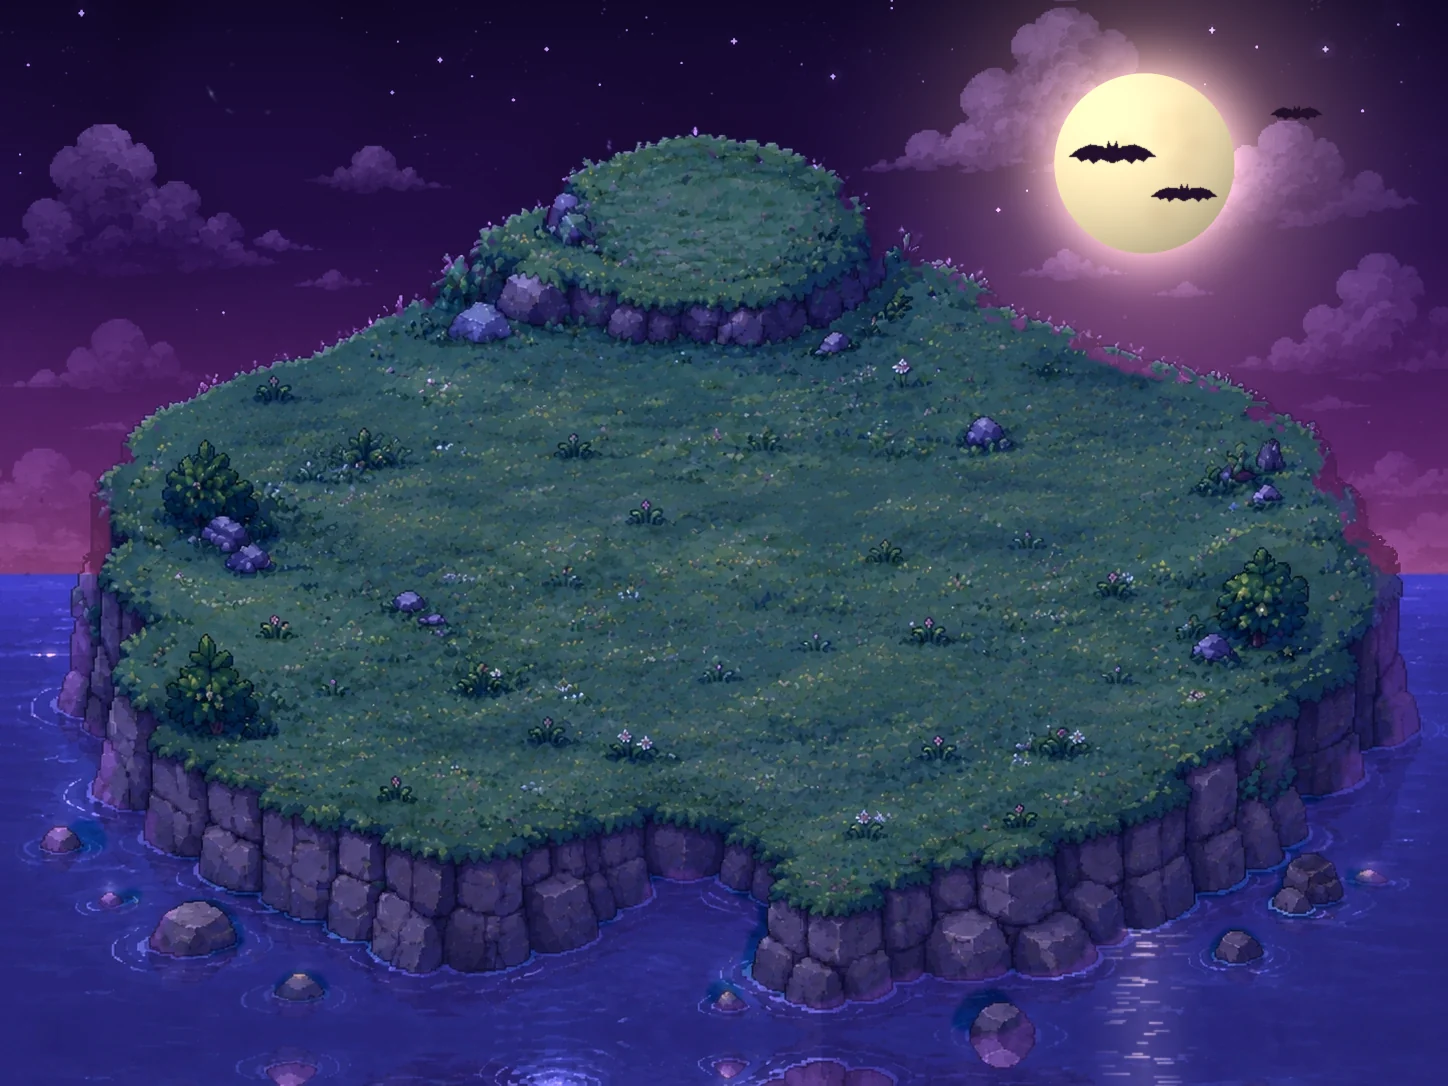
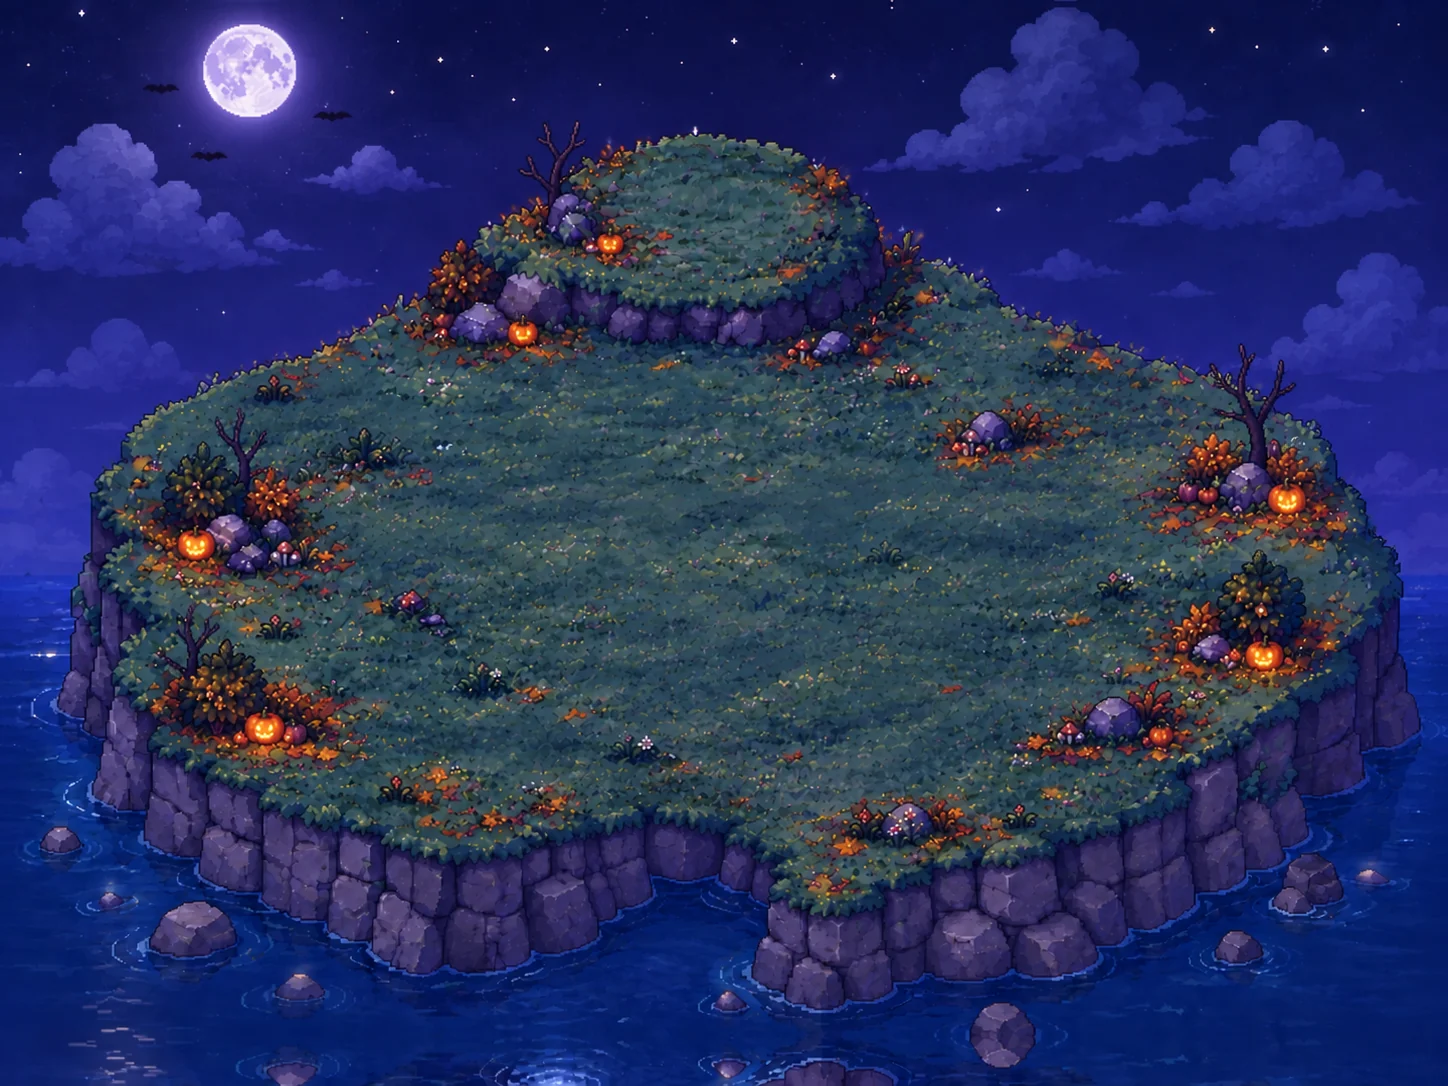
October island: the new Halloween sanctuary, one picture per time of day
Replaces the single night picture with the provided Halloween sanctuary
(morning, noon, evening and night), drawn on the regular island's exact
footprint, so decorations and KONO's paths line up. October follows the time
of day again: leaves fall by day; bats, fog and the odd ghost come out in the
evening and at night, and the night moon glows where it's painted.

tools/import_halloween_island.py turns the source pictures into the maps and
loading previews and finds the moon; the old drawing script is retired.

Claude-Session: https://claude.ai/code/session_01C3DGuNHBQUt7ehGnFFVFrZ

diff --git a/src/game/systems/HalloweenSystem.ts b/src/game/systems/HalloweenSystem.ts
@@ -3,14 +3,16 @@ import { HALLOWEEN_MOON } from '../data/halloweenIsland'
 import { RenderLayers } from '../engine/RenderLayers'
 import type { DayPhase } from '../sanctuary/types'
 
-/** The island in October (see sanctuary/season.ts): one Halloween night picture all day (drawn by
- * tools/draw_halloween_night.py, the island's own art under a violet sky and a big full moon); this adds
- * what moves. The moon's glow breathes, bats cross the sky (often in front of the moon), low fog drifts
- * over the grass, a few autumn leaves fall, and now and then a friendly ghost floats up from the grass.
- * With reduced motion only the (still) moon glow and fog are shown. */
+/** The island in October (see sanctuary/season.ts): the Halloween island's own picture for each time of
+ * day (tools/import_halloween_island.py); this adds what moves. Autumn leaves fall in the day; in the
+ * evening and at night bats cross the sky (at night often past the moon, whose glow breathes), low fog
+ * drifts over the grass, and now and then a friendly ghost floats up. With reduced motion only the
+ * (still) moon glow and fog are shown. */
 type Point = { x: number; y: number }
 
 const LEAF_TINTS = [0xe0782c, 0xc84a26, 0xf0b040, 0xa8642c]
+const MOON_ALPHA: Record<DayPhase, number> = { morning: 0, afternoon: 0, evening: 0, night: 0.38 }
+const FOG_ALPHA: Record<DayPhase, number> = { morning: 0.1, afternoon: 0, evening: 0.14, night: 0.2 }
 /** Where a ghost can float up from: open grass, away from the hill and the cliffs. */
 const GHOST_SPOTS: Point[] = [{ x: 0.3, y: 0.55 }, { x: 0.44, y: 0.62 }, { x: 0.6, y: 0.5 }, { x: 0.72, y: 0.62 }, { x: 0.36, y: 0.42 }]
 /** A friendly ghost, painted softly like the island's decorations (no hard pixels): a rounded sheet
@@ -117,6 +119,7 @@ export class HalloweenSystem {
   private readonly scene: Phaser.Scene
   private bounds = new Phaser.Geom.Rectangle()
   private reducedMotion = false
+  private phase: DayPhase = 'afternoon'
   private moonGlow: Phaser.GameObjects.Image | null = null
   private moonTween?: Phaser.Tweens.Tween
   private fog: { image: Phaser.GameObjects.Image; at: Point; tween?: Phaser.Tweens.Tween }[] = []
@@ -127,18 +130,18 @@ export class HalloweenSystem {
     this.scene = scene
   }
 
-  /** The picture is night all day, so the time of day doesn't change what's shown. */
-  create(_phase: DayPhase, reducedMotion: boolean): void {
+  create(phase: DayPhase, reducedMotion: boolean): void {
+    this.phase = phase
     this.reducedMotion = reducedMotion
     glowTexture(this.scene, 'hw-glow-moon', '255,214,160')
     fogTexture(this.scene, 'hw-fog')
     batTexture(this.scene, 'hw-bat-0', true)
     batTexture(this.scene, 'hw-bat-1', false)
     ghostTexture(this.scene, 'hw-ghost')
-    this.moonGlow = this.scene.add.image(0, 0, 'hw-glow-moon').setDepth(RenderLayers.lightingShade + 0.05).setBlendMode(Phaser.BlendModes.ADD).setAlpha(0.35)
+    this.moonGlow = this.scene.add.image(0, 0, 'hw-glow-moon').setDepth(RenderLayers.lightingShade + 0.05).setBlendMode(Phaser.BlendModes.ADD).setAlpha(0)
     const fogAt: Point[] = [{ x: 0.3, y: 0.62 }, { x: 0.62, y: 0.7 }, { x: 0.78, y: 0.5 }, { x: 0.45, y: 0.45 }]
     for (const at of fogAt) {
-      const image = this.scene.add.image(0, 0, 'hw-fog').setDepth(RenderLayers.atmosphereBack + 0.1).setAlpha(0.2)
+      const image = this.scene.add.image(0, 0, 'hw-fog').setDepth(RenderLayers.atmosphereBack + 0.1).setAlpha(0)
       this.fog.push({ image, at })
     }
     this.timers.push(this.scene.time.addEvent({ delay: 2400, loop: true, callback: () => this.spawnBat() }))
@@ -159,7 +162,11 @@ export class HalloweenSystem {
     this.animate()
   }
 
-  setPhase(_phase?: DayPhase): void {} // eslint-disable-line @typescript-eslint/no-unused-vars
+  setPhase(phase: DayPhase): void {
+    if (phase === this.phase) return
+    this.phase = phase
+    this.animate()
+  }
 
   setReducedMotion(reducedMotion: boolean): void {
     this.reducedMotion = reducedMotion
@@ -172,15 +179,16 @@ export class HalloweenSystem {
   private animate(): void {
     this.moonTween?.remove()
     this.moonTween = undefined
+    const moon = MOON_ALPHA[this.phase], fog = FOG_ALPHA[this.phase]
     if (this.moonGlow) {
-      this.moonGlow.setAlpha(0.35)
-      if (!this.reducedMotion) this.moonTween = this.scene.tweens.add({ targets: this.moonGlow, alpha: { from: 0.26, to: 0.42 }, duration: 3600, yoyo: true, repeat: -1, ease: 'Sine.InOut' })
+      this.moonGlow.setAlpha(moon)
+      if (moon && !this.reducedMotion) this.moonTween = this.scene.tweens.add({ targets: this.moonGlow, alpha: { from: moon * 0.7, to: moon * 1.1 }, duration: 3600, yoyo: true, repeat: -1, ease: 'Sine.InOut' })
     }
     for (const f of this.fog) {
       f.tween?.remove()
       f.tween = undefined
-      f.image.setX(this.px(f.at))
-      if (!this.reducedMotion && this.bounds.width) {
+      f.image.setX(this.px(f.at)).setAlpha(fog)
+      if (fog && !this.reducedMotion && this.bounds.width) {
         const shift = this.bounds.width * 0.05
         f.tween = this.scene.tweens.add({ targets: f.image, x: { from: this.px(f.at) - shift, to: this.px(f.at) + shift }, duration: Phaser.Math.Between(9000, 14000), yoyo: true, repeat: -1, ease: 'Sine.InOut' })
       }
@@ -195,9 +203,11 @@ export class HalloweenSystem {
 
   private spawnBat(): void {
     if (this.reducedMotion || !this.bounds.width || this.movers.size > 12) return
+    // Bats come out in the evening and at night (and once in a while in the afternoon).
+    if (this.phase === 'morning' || (this.phase === 'afternoon' && Math.random() > 0.15)) return
     const fromLeft = Math.random() < 0.5
-    // About half fly past the moon, so they show up as silhouettes against it.
-    const nearMoon = Math.random() < 0.5
+    // At night about half fly past the moon, so they show up as silhouettes against it.
+    const nearMoon = this.phase === 'night' && Math.random() < 0.5
     const y0 = nearMoon ? this.py(HALLOWEEN_MOON) + this.bounds.width * HALLOWEEN_MOON.r * Phaser.Math.FloatBetween(-0.6, 0.6) : this.bounds.y + this.bounds.height * Phaser.Math.FloatBetween(0.04, 0.3)
     const x0 = fromLeft ? this.bounds.x - 30 : this.bounds.right + 30
     const x1 = fromLeft ? this.bounds.right + 30 : this.bounds.x - 30
@@ -214,7 +224,7 @@ export class HalloweenSystem {
   }
 
   private spawnLeaf(): void {
-    if (this.reducedMotion || !this.bounds.width || this.movers.size > 12) return
+    if (this.reducedMotion || !this.bounds.width || this.movers.size > 12 || this.phase === 'night') return
     if (!this.scene.textures.exists('leaf-01')) return
     const x0 = this.bounds.x + this.bounds.width * Phaser.Math.FloatBetween(0.12, 0.88)
     const y0 = this.bounds.y + this.bounds.height * Phaser.Math.FloatBetween(0.08, 0.3)
@@ -228,7 +238,7 @@ export class HalloweenSystem {
   }
 
   private spawnGhost(): void {
-    if (this.reducedMotion || !this.bounds.width) return
+    if (this.reducedMotion || !this.bounds.width || this.phase !== 'night') return
     const at = Phaser.Utils.Array.GetRandom(GHOST_SPOTS)
     const scale = Math.max(0.7, this.bounds.width / 1100)
     const ghost = this.track(this.scene.add.image(this.px(at), this.py(at), 'hw-ghost').setDepth(RenderLayers.critters + 0.1).setScale(scale).setAlpha(0))

diff --git a/src/game/sanctuary/season.ts b/src/game/sanctuary/season.ts
@@ -1,6 +1,6 @@
 /** The island's seasonal look, read from the day it's opened:
- * - all of October it's the island under one Halloween night sky with a full moon, whatever the time of
- *   day (tools/draw_halloween_night.py, game/systems/HalloweenSystem);
+ * - all of October it's the Halloween island, one picture per time of day (tools/import_halloween_island.py,
+ *   game/systems/HalloweenSystem);
  * - from December 1 to February 14 it's the winter island under snow (tools/draw_winter_island.py,
  *   game/systems/WinterSystem), and Valentine's week (February 1-14) adds floating hearts;
  * - from March 20 to May 20 it's the spring island in blossom, and from May 21 to June 20 the end of
@@ -21,4 +21,4 @@ const SEASONS: IslandSeason[] = ['halloween', 'winter', 'valentine', 'spring', '
 export const isIslandSeason = (value: unknown): value is IslandSeason => SEASONS.includes(value as IslandSeason)
 /** Valentine's week shares the winter island's maps. */
 const MAP_FOLDER: Record<IslandSeason, string> = { halloween: 'halloween', winter: 'winter', valentine: 'winter', spring: 'spring', semester: 'semester' }
-export const islandMapPath = (phase: string, season: IslandSeason | null) => '/garden/terrace-23.0/' + (season ? MAP_FOLDER[season] + '/' : '') + (season === 'halloween' ? 'night' : phase)
+export const islandMapPath = (phase: string, season: IslandSeason | null) => '/garden/terrace-23.0/' + (season ? MAP_FOLDER[season] + '/' : '') + phase

diff --git a/src/game/data/halloweenIsland.ts b/src/game/data/halloweenIsland.ts
@@ -1,4 +1,4 @@
-// Generated by tools/draw_halloween_night.py; do not edit by hand.
-/** The October island's full moon (0..1 across the map; r is the radius over the map's width), so the
- * island can glow it. */
-export const HALLOWEEN_MOON={"x":0.7900,"y":0.1500,"r":0.0620} as const
+// Generated by tools/import_halloween_island.py; do not edit by hand.
+/** The October island's full moon in its night picture (0..1 across the map; r is the radius over the
+ * map's width), so the island can glow it and send bats past it. */
+export const HALLOWEEN_MOON={"x": 0.1744, "y": 0.068, "r": 0.0355} as const

diff --git a/tools/import_halloween_island.py b/tools/import_halloween_island.py
@@ -1,0 +1,71 @@
+"""Imports the October island (the Halloween sanctuary, one picture per time of day) from the provided
+source pictures: halloween_sanctuary_morning.png, _noon.png (the afternoon), _evening.png and _night.png,
+each 1448 x 1086 and drawn on the regular island's exact footprint.
+
+Writes public/garden/terrace-23.0/halloween/<phase>.webp and <phase>-poster.webp (the small picture shown
+while the island loads), and src/game/data/halloweenIsland.ts (where the night picture's moon is, so the
+island can glow it).
+
+Run: python3 tools/import_halloween_island.py SOURCE_DIR
+(the folder unzipped from 17_halloween_sanctuary_time_of_day_v1.zip)
+"""
+import json
+import os
+import sys
+
+import numpy as np
+from PIL import Image, ImageFilter
+
+ROOT = os.path.dirname(os.path.dirname(os.path.abspath(__file__)))
+OUT = os.path.join(ROOT, 'public', 'garden', 'terrace-23.0', 'halloween')
+TS_OUT = os.path.join(ROOT, 'src', 'game', 'data', 'halloweenIsland.ts')
+ALLOWLIST = os.path.join(ROOT, 'tools', 'public-allowlist.json')
+SOURCES = {'morning': 'morning', 'afternoon': 'noon', 'evening': 'evening', 'night': 'night'}
+SIZE = (1448, 1086)
+
+
+def find_moon(img):
+    """The brightest round thing in the top third of the night sky: its center and radius (0..1)."""
+    gray = img.convert('L')
+    blur = np.asarray(gray.filter(ImageFilter.GaussianBlur(6))).astype(float)
+    H, W = blur.shape
+    blur[int(H * 0.3):] = 0
+    y, x = np.unravel_index(blur.argmax(), blur.shape)
+    raw = np.asarray(gray).astype(float)
+    yy, xx = np.mgrid[0:H, 0:W]
+    ys, xs = np.nonzero((raw > 200) & ((xx - x) ** 2 + (yy - y) ** 2 < 90 ** 2))
+    cx, cy = xs.mean(), ys.mean()
+    r = np.sqrt((xs - cx) ** 2 + (ys - cy) ** 2).max()
+    return {'x': round(float(cx) / W, 4), 'y': round(float(cy) / H, 4), 'r': round(float(r) / W, 4)}
+
+
+def main():
+    src = sys.argv[1]
+    os.makedirs(OUT, exist_ok=True)
+    for name in os.listdir(OUT):
+        os.remove(os.path.join(OUT, name))
+    moon = None
+    for phase, name in SOURCES.items():
+        img = Image.open(os.path.join(src, 'halloween_sanctuary_%s.png' % name)).convert('RGB')
+        if img.size != SIZE:
+            raise SystemExit('%s is %s, not %s' % (name, img.size, SIZE))
+        img.save(os.path.join(OUT, phase + '.webp'), 'WEBP', quality=86, method=6)
+        img.resize((SIZE[0] // 2, SIZE[1] // 2), Image.LANCZOS).save(os.path.join(OUT, phase + '-poster.webp'), 'WEBP', quality=70, method=6)
+        if phase == 'night':
+            moon = find_moon(img)
+    with open(TS_OUT, 'w') as f:
+        f.write('// Generated by tools/import_halloween_island.py; do not edit by hand.\n')
+        f.write("/** The October island's full moon in its night picture (0..1 across the map; r is the radius over the\n * map's width), so the island can glow it and send bats past it. */\n")
+        f.write('export const HALLOWEEN_MOON=' + json.dumps(moon) + ' as const\n')
+    with open(ALLOWLIST) as f:
+        files = json.load(f)
+    files = [p for p in files if not p.startswith('/garden/terrace-23.0/halloween/')]
+    files += ['/garden/terrace-23.0/halloween/%s%s.webp' % (p, s) for p in SOURCES for s in ('', '-poster')]
+    with open(ALLOWLIST, 'w') as f:
+        json.dump(files, f, indent=1)
+        f.write('\n')
+    print('moon', moon)
+
+
+if __name__ == '__main__':
+    main()

diff --git a/tools/draw_halloween_island.py b/tools/draw_halloween_island.py
@@ -1,6 +1,6 @@
 """Shared helpers for the seasonal islands (tools/draw_winter_island.py and draw_spring_island.py import
-its color helpers and sprite drawing). Its own Halloween maps are retired: October is now one night
-picture, drawn by tools/draw_halloween_night.py, so running this file does nothing.
+its color helpers and sprite drawing). Its own Halloween maps are retired: October's island now comes from
+the provided pictures (tools/import_halloween_island.py), so running this file does nothing.
 
 Originally: draws the island's Halloween look (October): the four time-of-day maps recolored for autumn
 (golden-orange grass, red and orange bushes, a lilac-to-pumpkin sky, a harvest moon at night) with
@@ -545,4 +545,4 @@ def main():
         f.write('\n')
 
 if __name__ == '__main__':
-    print('Retired: October is one night picture now. Run tools/draw_halloween_night.py instead.')
+    print('Retired: run tools/import_halloween_island.py with the Halloween sanctuary pictures instead.')
